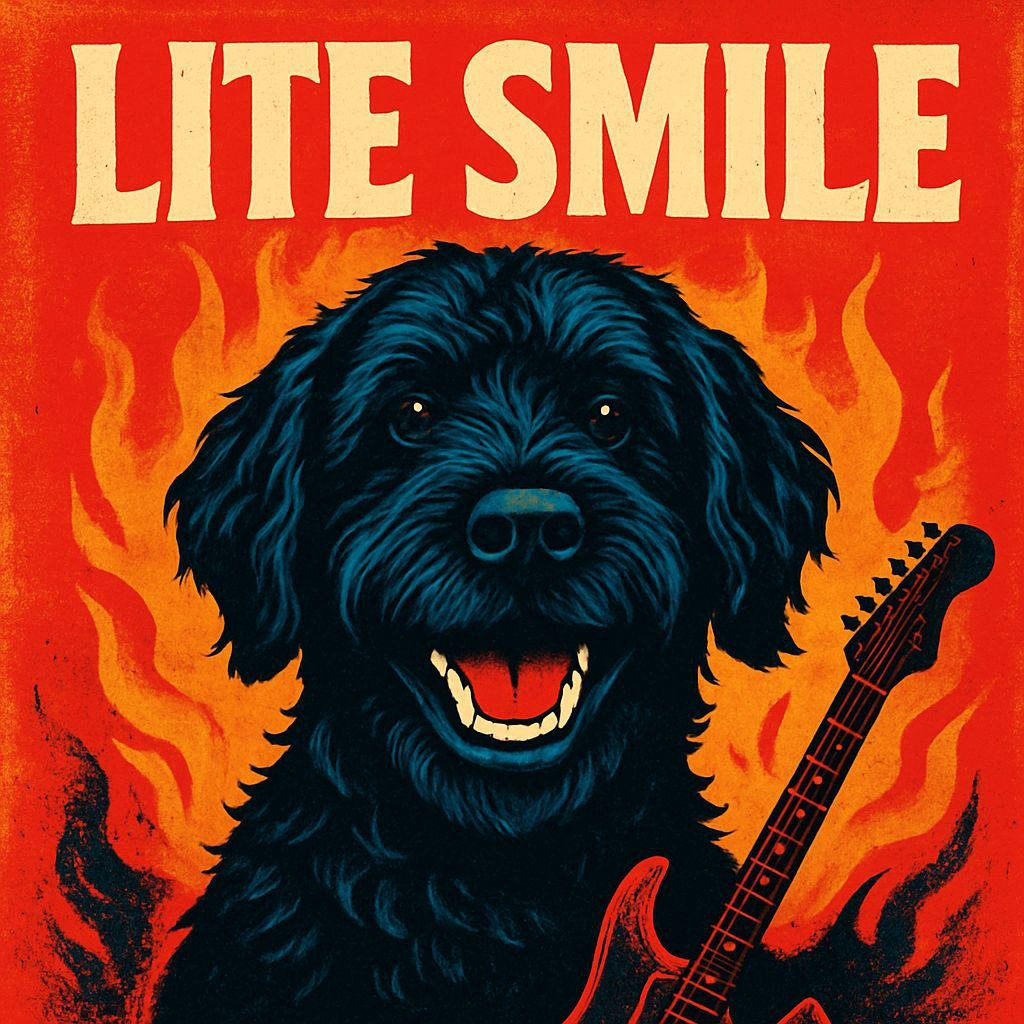
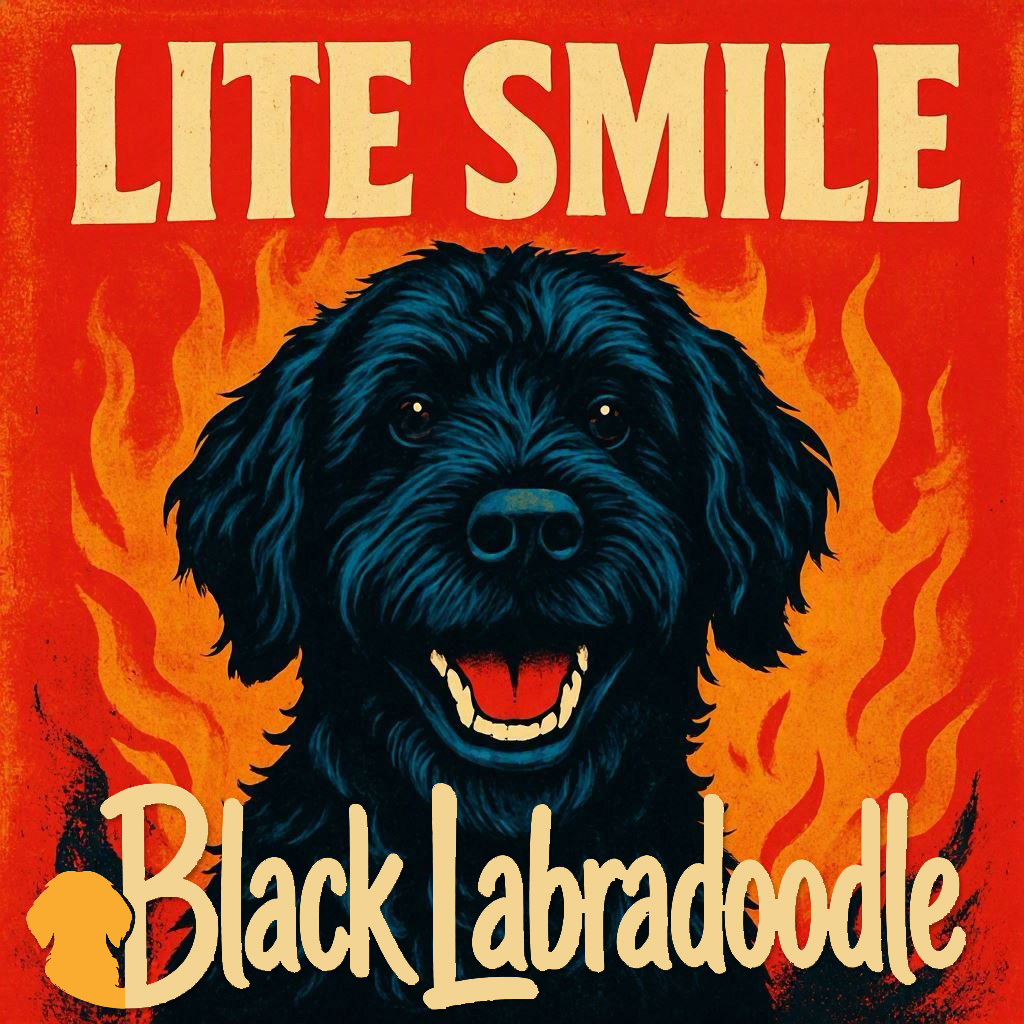
Базовый дизайн

diff --git a/src/components/Header.jsx b/src/components/Header.jsx
@@ -5,7 +5,7 @@ import styles from './Header.module.css';
 import { MenuM } from './MenuM';
 
 const navItems = [
-  { to: '/', label: 'About Bl-Lab', end: true },
+  { to: '/', label: 'Home', end: true },
   { to: '/members', label: 'Team band' },
   { to: '/music', label: 'Music' },
   { to: '/contacts', label: 'Contracts' },
@@ -17,7 +17,7 @@ export function Header() {
   return (
     <header className={styles.header}>
       <NavLink to="/" className={styles.logo} aria-label="Home">
-        <svg
+        { /*<svg
           width="28"
           height="28"
           viewBox="0 0 24 24"
@@ -30,7 +30,8 @@ export function Header() {
         >
           <path d="M3 10.5 12 3l9 7.5" />
           <path d="M5 9.5V21h14V9.5" />
-        </svg>
+        </svg> */ }
+          <div className={styles.homelogo}></div>
       </NavLink>
 
       <button type="button" className={`${styles.menuMobile} ${styles.logo}`}

diff --git a/src/pages/Home.jsx b/src/pages/Home.jsx
@@ -4,9 +4,14 @@ import styles from './Home.module.css';
 export function Home() {
   return (
     <div>
-      <h1 className="title">Black Labradoodle</h1>
-      <div className={styles.container}>
-        <img src={liteSmile} alt="Black Labradoodle" className={styles.image} />
+      { /*<h1 className="title">Black Labradoodle</h1> */ }
+      <div className={styles.mainCnt}>
+        { /*<img src={liteSmile} alt="Black Labradoodle" className={styles.image} /> */}
+        <img
+            src="/BL_logo_2.jpg"
+            alt="Black Labradoodle"
+            className={styles.image1}
+        />
         <div className={styles.text}>Tекст текст текст текст текст текст текст текст текст текст текст текст текст</div>
       </div>
     </div>

diff --git a/src/pages/Music.jsx b/src/pages/Music.jsx
@@ -36,19 +36,6 @@ export function Music() {
       {albums.map(({album}) => (
         <Album data={album}></Album>
       ))}
-
-      { /*<div className={styles.album}>
-        <img src={liteSmile} alt="Lite Smile" className={styles.albumImage} />
-
-        <div className={styles.albumInfo}>
-          <h2 className={styles.albumName}>Lite Smile</h2>
-          <div className={styles.albumList}>
-            {liteSmileTracks.map(({ name }) => (
-              <p>&bull; {name}</p>
-            ))}
-          </div>
-        </div>
-      </div> */}
     </div>
   );
 }

diff --git a/src/pages/Home.module.css b/src/pages/Home.module.css
@@ -5,6 +5,10 @@
   gap: 24px;
 }
 
+.mainCnt {
+  text-align: center; 
+}
+
 .image {
   flex-shrink: 0;
   width: 350px;
@@ -12,6 +16,12 @@
   height: auto;
   border-radius: 8px;
   object-fit: cover;
+}
+
+.image1 {
+  max-width: 100%;
+  height: auto;
+  max-height: 800px;
 }
 
 .text {
@@ -28,5 +38,11 @@
   .image {
     align-self: center;
     width: 100%;
+  }
+
+  .image1 {
+    align-self: center;
+    width: 100%;
+    max-height: none;
   }
 }

diff --git a/src/components/Header.module.css b/src/components/Header.module.css
@@ -25,6 +25,18 @@
   color: var(--color-gold);
 }
 
+.homelogo {
+    width: 124px;
+    height: 30px;
+    background: url(/bl_icon_full.png) no-repeat left;
+    background-size: contain;
+    transition: background-image 0.2s ease;
+}
+.homelogo:hover,
+.homelogo:focus-visible {
+   background-image: url(/bl_icon_full_hover_1.png);
+}
+
 .menuMobile {
   color: var(--color-text);
   background: var(--color-surface);

diff --git a/src/components/MenuM.jsx b/src/components/MenuM.jsx
@@ -3,7 +3,7 @@ import { NavLink } from 'react-router-dom';
 import styles from './MenuM.module.css';
 
 const navItems = [
-  { to: '/', label: 'About Bl-Lab', end: true },
+  { to: '/', label: 'Home', end: true },
   { to: '/members', label: 'Team band' },
   { to: '/music', label: 'Music' },
   { to: '/contacts', label: 'Contracts' },
